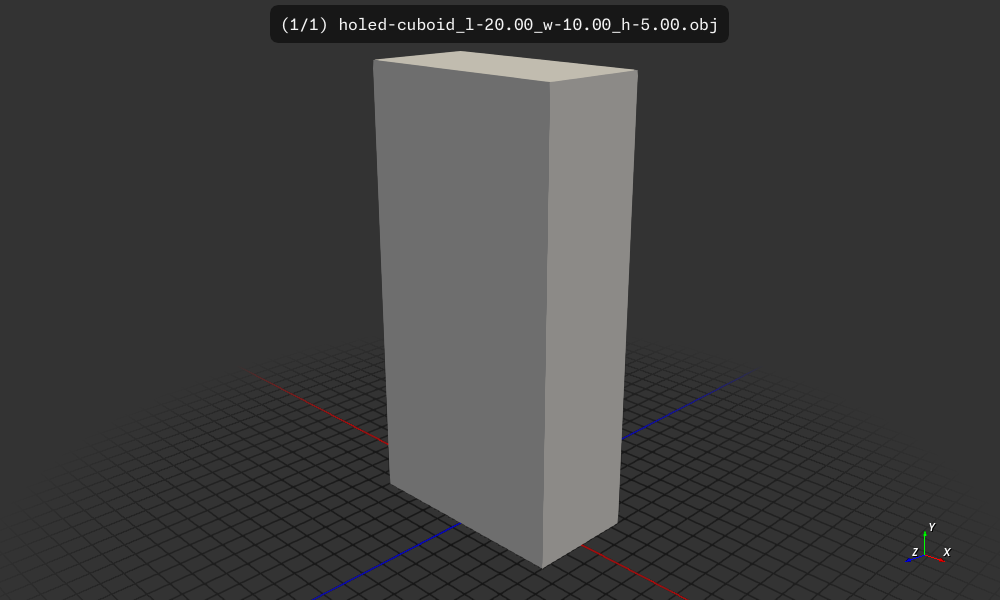
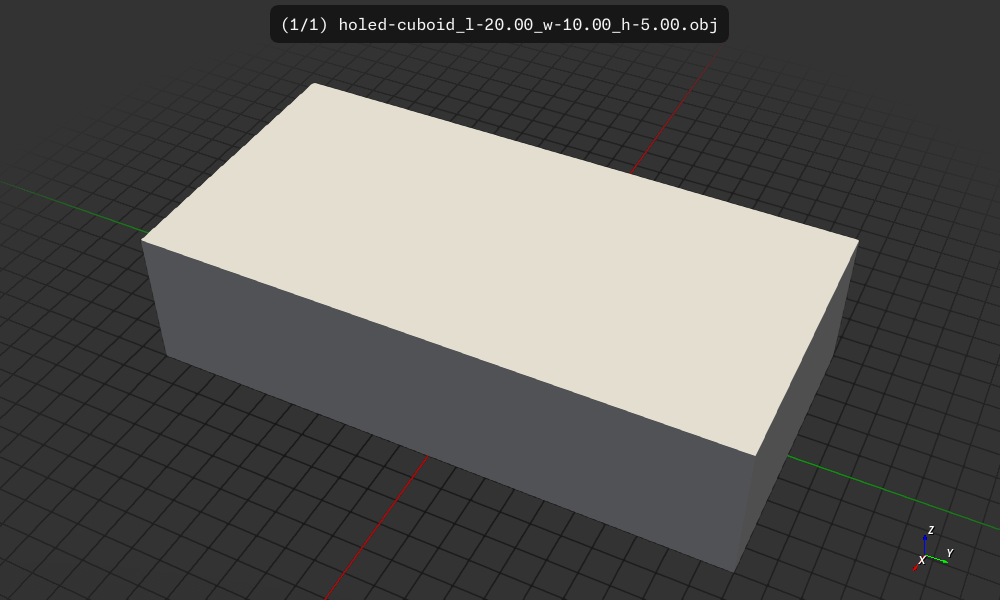
feat: Have f3d display with z up
Added `--up +z` to the f3d references and updated the png files.

diff --git a/README.md b/README.md
@@ -53,8 +53,10 @@ $ cargo install --path .
 
 The default output file is `holed-cuboid_l-20.00_w-10.00_h-5.00.obj`
 
-This can be visualized as a 3D model using `f3d holed-cuboid_l-20.00_w-10.00_h-5.00.obj`
-and converted to an image using `f3d holed-cuboid_l-20.00_w-10.00_h-5.00.obj --output holed-cuboid_l-20.00_w-10.00_h-5.00.png`
+This can be visualized as a 3D model using
+`f3d --up +z holed-cuboid_l-20.00_w-10.00_h-5.00.obj`
+and converted to an image using
+`f3d --up +z holed-cuboid_l-20.00_w-10.00_h-5.00.obj --output holed-cuboid_l-20.00_w-10.00_h-5.00.png`
 
 ### Examples
 
